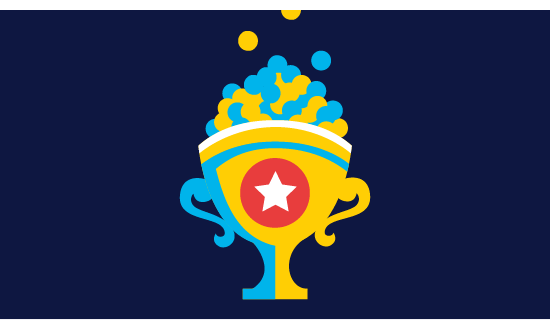
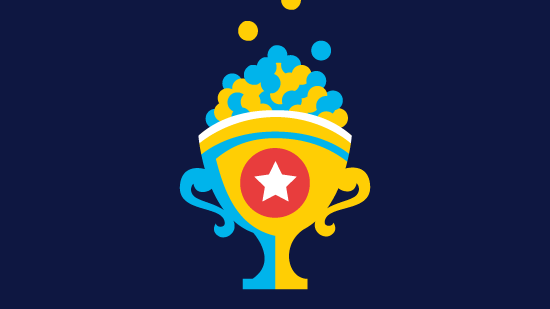
Updated .pngs and added Football

diff --git a/projects/fantasy/index.html b/projects/fantasy/index.html
@@ -42,7 +42,11 @@
 </picture>
 <picture>
     <source type="image/svg+xml" srcset="assets/svg/12-hockey.svg">
-    <img src="assets/png/12-hockey.png" alt="Most Points Straight">
+    <img src="assets/png/12-hockey.png" alt="Hockey">
+</picture>
+<picture>
+    <source type="image/svg+xml" srcset="assets/svg/13-football.svg">
+    <img src="assets/png/13-football.png" alt="Football">
 </picture>
 <picture>
     <source type="image/svg+xml" srcset="assets/svg/16-mostpoints-straight.svg">
